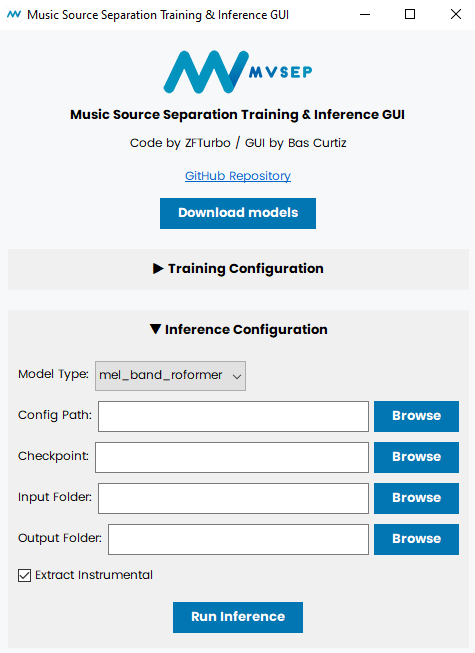
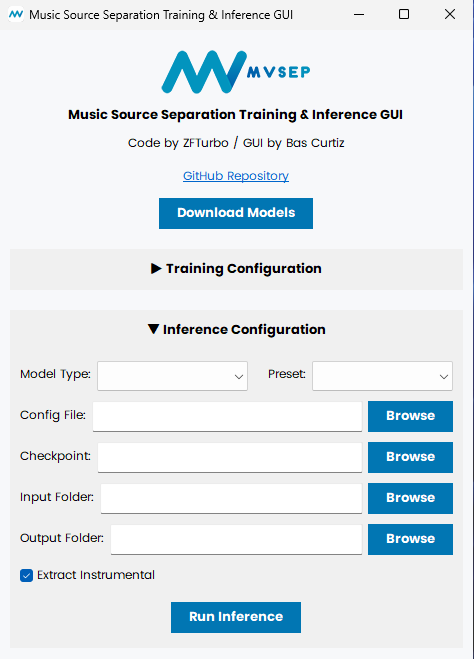
GUI description, images and video link were changed

diff --git a/docs/gui.md b/docs/gui.md
@@ -18,16 +18,12 @@ https://github.com/ZFTurbo/Music-Source-Separation-Training
 6. Open up CMD inside the folder and enter: `pip install -r requirements.txt`
 7. Enter: `python gui-wx.py`
 8. Download models - assign the config (.yaml) and checkpoint (.bin, .ckpt, or .th)
-9. Alternatively, you can use a compiled exe of the GUI:
-https://mega.nz/file/xAAzTCzR#2IapG3RJ9Vew3oC8l9H2zrw1vwUtZSqsUdJAjmARmPs
-Put it inside the root folder.
-This way you can make a shortcut to the exe on your desktop to run it with a double-click. 
 
 Video guide on [Youtube](https://youtu.be/M8JKFeN7HfU) (~6.5 minutes).
 
-[![Tutorial screenshot](https://github.com/ZFTurbo/Music-Source-Separation-Training/blob/main/gui/tutorial_screenshot.jpg)](https://youtu.be/gyxMCbDwfAw)
+[![Tutorial screenshot](https://github.com/ZFTurbo/Music-Source-Separation-Training/blob/main/gui/tutorial_screenshot.jpg)](https://youtu.be/M8JKFeN7HfU)
 
-Also you can use GUI as EXE-file on Windows: [Link](https://mega.nz/file/xAAzTCzR#2IapG3RJ9Vew3oC8l9H2zrw1vwUtZSqsUdJAjmARmPs).
+Also you can use GUI as EXE-file on Windows: [Link](https://mega.nz/file/xAAzTCzR#2IapG3RJ9Vew3oC8l9H2zrw1vwUtZSqsUdJAjmARmPs). Put it inside the root folder. This way you can make a shortcut to the exe on your desktop to run it with a double-click. 
 
 ### Other links
 
